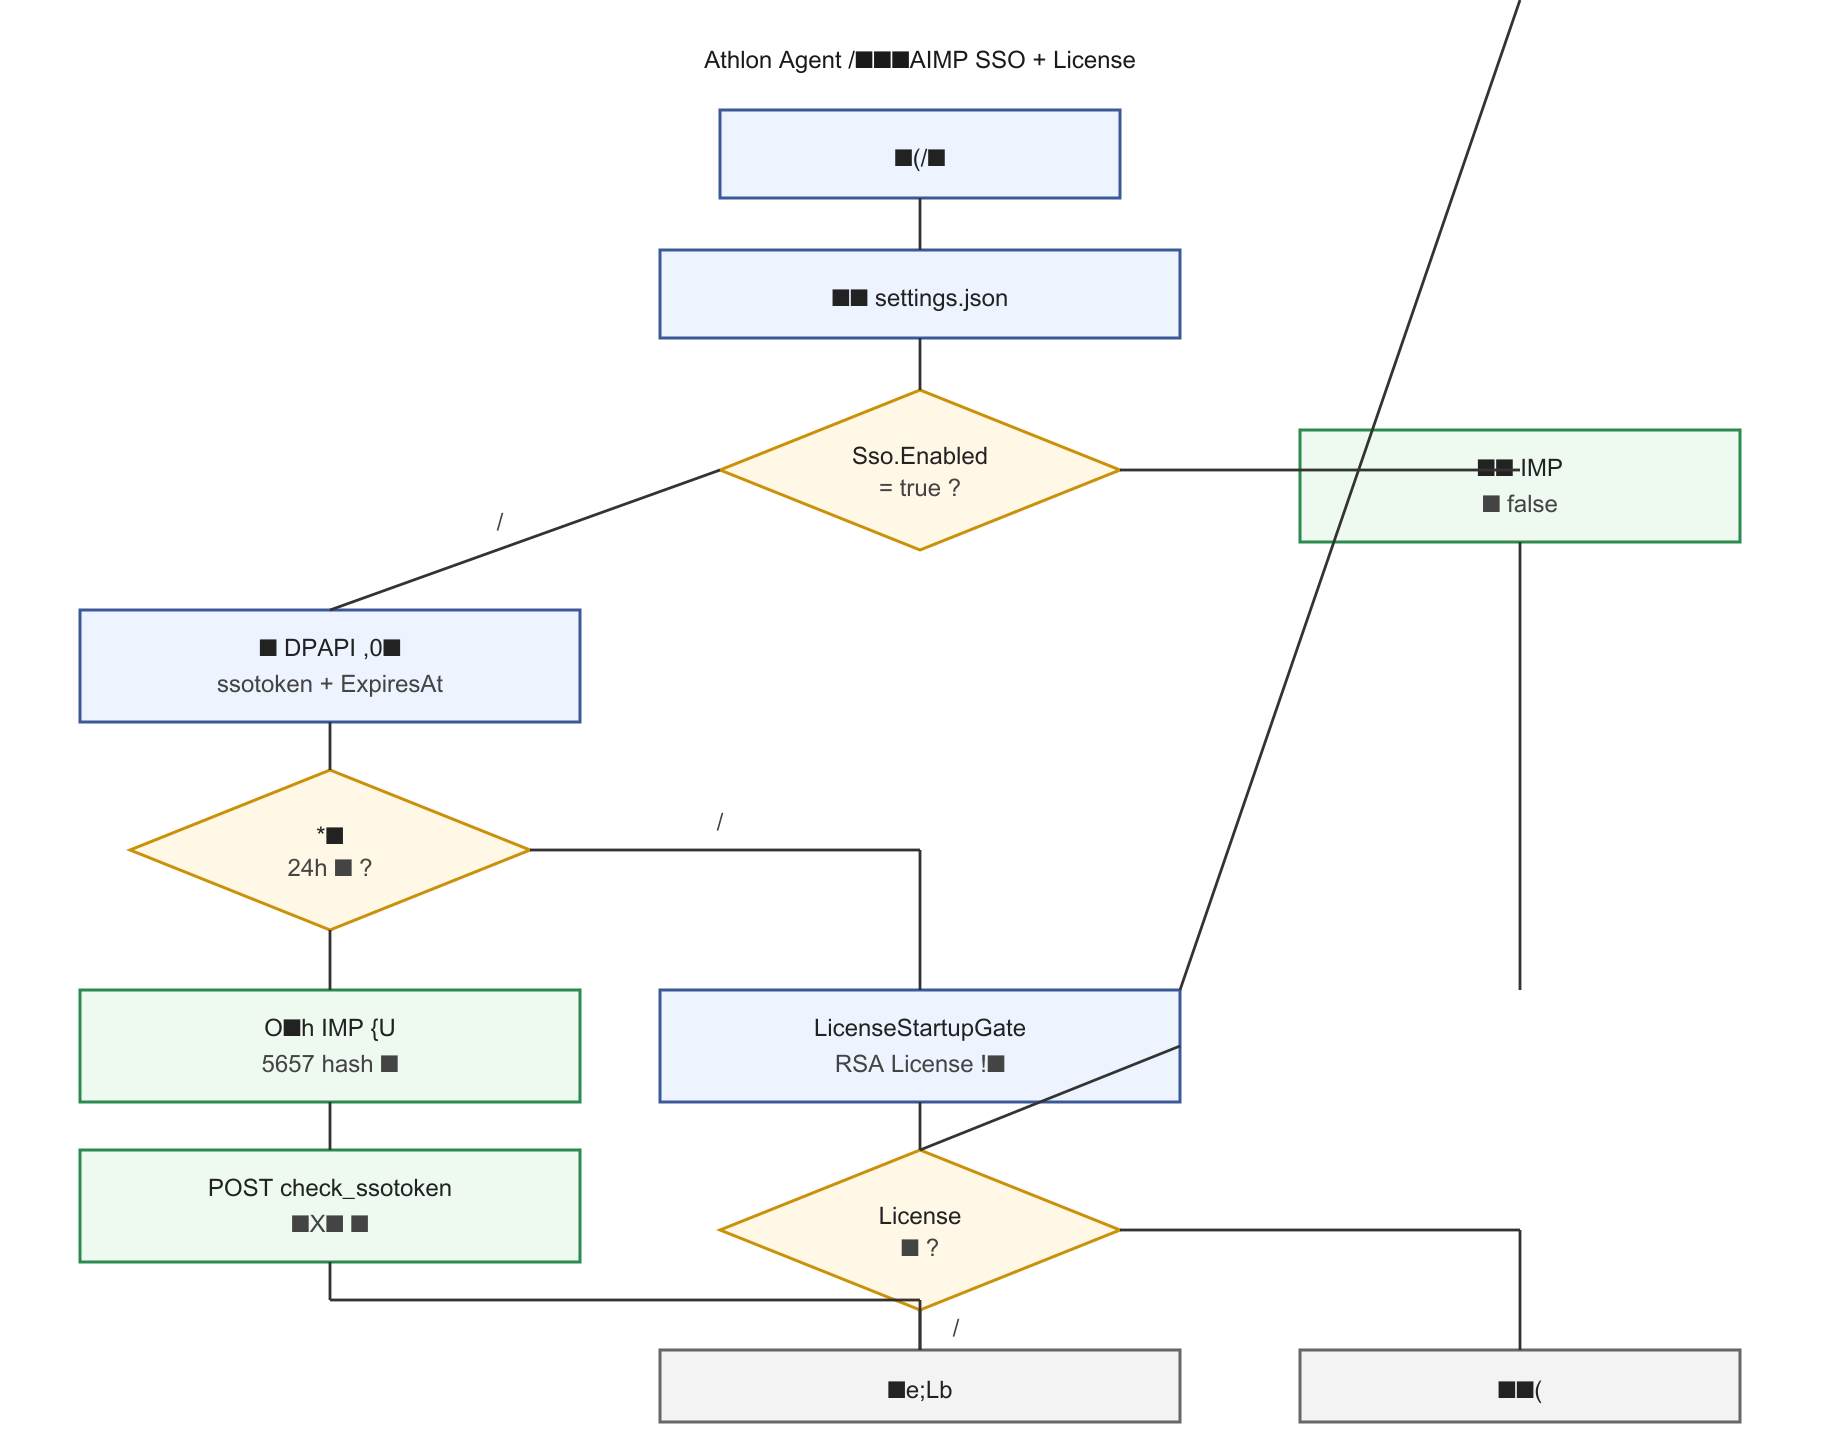
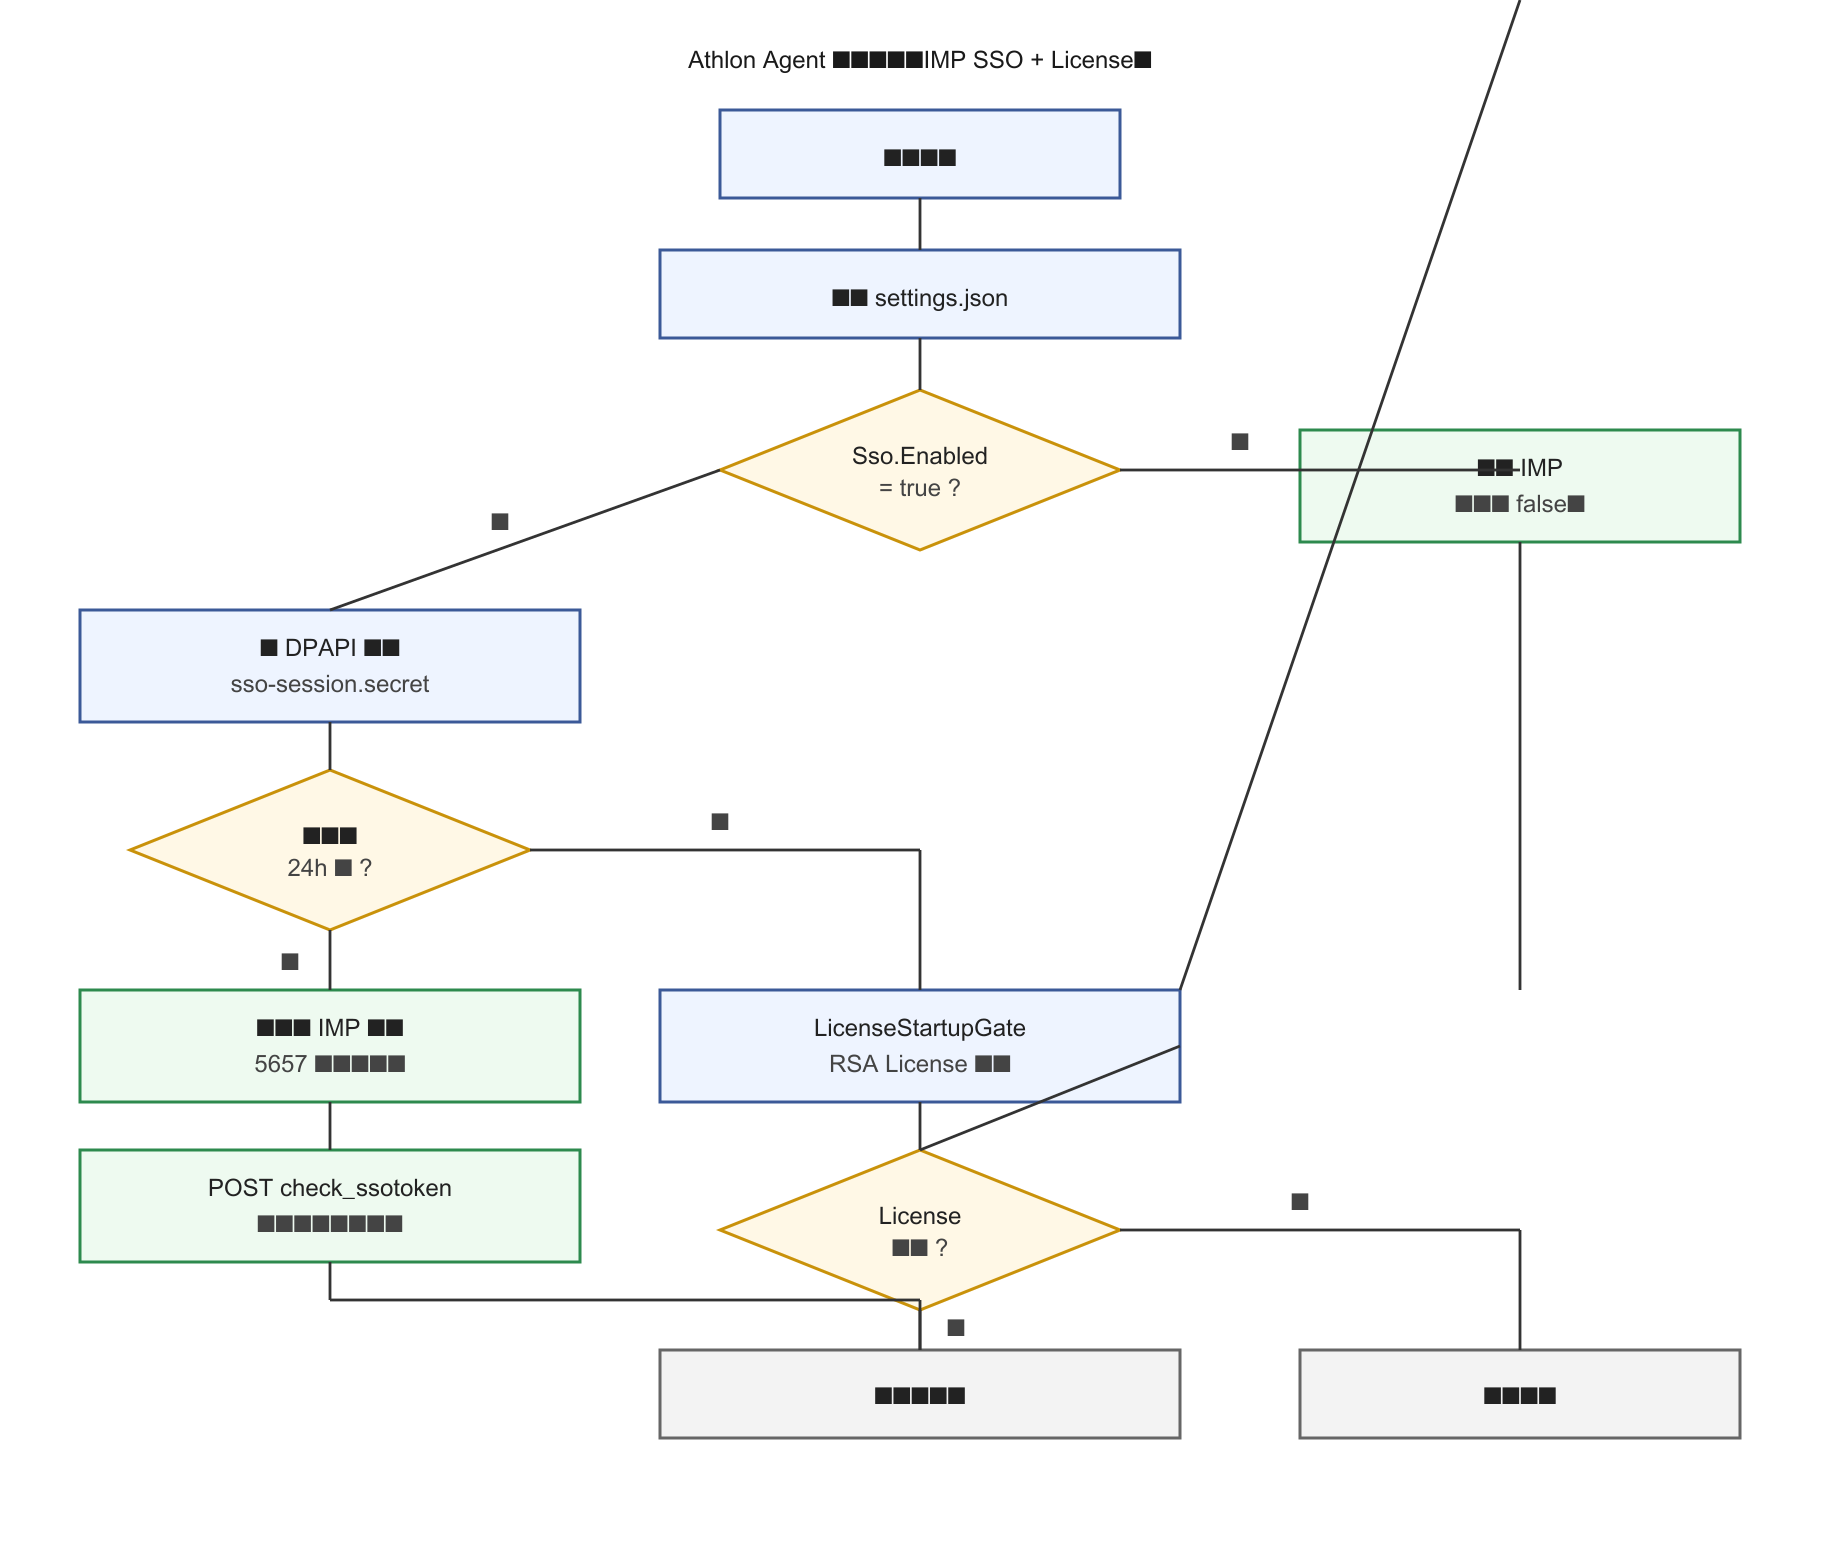
feat: auto-close SSO page with countdown and refresh IMP SSO docs to V2.0
Align implementation docs with dual-endpoint callback flow and add a 3-second closing countdown on the branded SSO success page.

diff --git a/tools/imp-sso-doc/generate_imp_sso_doc.py b/tools/imp-sso-doc/generate_imp_sso_doc.py
@@ -90,8 +90,8 @@ def build_document() -> Document:
     add_title(document, "Athlon Agent IMP SSO 实现方案")
     meta = document.add_paragraph()
     meta.alignment = WD_ALIGN_PARAGRAPH.CENTER
-    meta.add_run(f"文档版本：V1.0    创建日期：{date.today().isoformat()}\n").bold = True
-    meta.add_run("适用范围：Athlon Agent v2.0.5（feature/imp-sso）")
+    meta.add_run(f"文档版本：V2.0    创建日期：{date.today().isoformat()}\n").bold = True
+    meta.add_run("适用范围：Athlon Agent（feature/imp-sso）")
 
     add_heading(document, "1. 概述")
     add_paragraph(
@@ -104,8 +104,9 @@ def build_document() -> Document:
         [
             "默认 Sso.Enabled = false，前期不影响现有 License 流程",
             "启用后：SSO 与 License 双重门控均须通过",
-            "本地会话固定 24 小时有效，不做续期",
+            "本地会话固定 24 小时有效（SessionValidityHours），不做续期",
             "标题栏显示 IMP 返回的 ename，支持登出",
+            "浏览器回调采用双端点设计：GET /sso/auth 返回认证页，POST /sso/complete 回传 token",
         ],
     )
 
@@ -116,8 +117,9 @@ def build_document() -> Document:
         [
             ["OAuth access/refresh token", "单一 ssotoken（回调 hash 参数 token）"],
             ["POST /refresh_token", "无 refresh；登录时 POST check_ssotoken 一次"],
-            ["IMP timeoutRemaining 驱动过期", "本地 LoggedInAt + 24h"],
+            ["IMP timeoutRemaining 驱动本地过期", "本地 LoggedInAt + SessionValidityHours"],
             ["SsoFilter 5 分钟轮询续期", "不实现续期"],
+            ["服务端直接读取 hash", "浏览器 JS 解析 hash 后 POST JSON 到 /sso/complete"],
         ],
     )
 
@@ -127,8 +129,9 @@ def build_document() -> Document:
         '{\n'
         '  "Sso": {\n'
         '    "Enabled": false,\n'
-        '    "ImpDomain": "www.icbcasia.com",\n'
+        '    "ImpDomain": "imp.icbcasiauat.com",\n'
         '    "AppId": "252",\n'
+        '    "Msg": "123456789",\n'
         '    "Version": "20251127",\n'
         '    "SessionValidityHours": 24,\n'
         '    "CallbackPort": 5657,\n'
@@ -137,6 +140,21 @@ def build_document() -> Document:
         '  }\n'
         '}',
         style="Intense Quote",
+    )
+    add_table(
+        document,
+        ["配置项", "说明"],
+        [
+            ["Enabled", "是否启用 IMP SSO，默认 false"],
+            ["ImpDomain", "IMP 域名，UAT 默认 imp.icbcasiauat.com，生产切换为正式域名"],
+            ["AppId", "IMP 子应用 ID（impappid）"],
+            ["Msg", "IMP 子应用标识，用于 index.html 的 msg 参数"],
+            ["Version", "check_ssotoken 接口版本号"],
+            ["SessionValidityHours", "本地会话有效期（小时），默认 24"],
+            ["CallbackPort", "本地回调监听端口，默认 5657"],
+            ["CallbackPath", "认证页路径，默认 /sso/auth"],
+            ["CompletePath", "token 回传路径，默认 /sso/complete"],
+        ],
     )
     add_table(
         document,
@@ -151,9 +169,10 @@ def build_document() -> Document:
     add_bullets(
         document,
         [
-            "IMP 登录成功 → POST check_ssotoken（仅此一次）→ 存 ssotoken + ename",
+            "IMP 登录成功 → 浏览器 POST /sso/complete → Agent POST check_ssotoken（仅此一次）→ 存 ssotoken + ename",
             "ExpiresAt = LoggedInAt + SessionValidityHours（默认 24h）",
-            "24h 内再次启动：读 DPAPI 缓存，不调 IMP",
+            "会话持久化至 ~/.athlon-agent/credentials/sso-session.secret（DPAPI 加密）",
+            "24h 内再次启动：读 DPAPI 缓存，不调 IMP、不打开浏览器",
             "超过 24h：清缓存 → 重新浏览器 IMP 登录",
             "运行期间不续期、不轮询 check_ssotoken",
         ],
@@ -170,7 +189,7 @@ def build_document() -> Document:
         document,
         "4.2 IMP 登录时序图",
         "login_sequence.svg",
-        "图 2  IMP 浏览器登录与 hash 回调时序",
+        "图 2  IMP 浏览器登录与双端点回调时序",
     )
 
     add_heading(document, "5. IMP 协议要点")
@@ -179,48 +198,95 @@ def build_document() -> Document:
         document,
         ["端点", "何时调用"],
         [
-            ["/icbcasia/imp/index.html", "无有效缓存或已过期时打开浏览器"],
-            ["/icbcasia/imp/check_ssotoken", "hash 回调拿到 ssotoken 后调用一次"],
-            ["/icbcasia/imp/getsaubapp", "可选；回调 URL 已固定时可跳过"],
+            ["/icbcasia/imp/index.html?toLogin=true&appId={AppId}&msg={Msg}#/login", "无有效缓存或已过期时打开浏览器"],
+            ["/icbcasia/imp/check_ssotoken", "收到 /sso/complete 回调后调用一次"],
+            ["GET localhost:{CallbackPort}/sso/auth", "IMP 重定向后浏览器请求认证页"],
+            ["POST localhost:{CallbackPort}/sso/complete", "认证页 JS 解析 hash 后回传 JSON"],
         ],
     )
 
     add_heading(document, "5.2 check_ssotoken 请求", level=2)
     document.add_paragraph(
-        "POST https://{ImpDomain}/icbcasia/imp/check_ssotoken?version=20251127\n"
+        "POST https://{ImpDomain}/icbcasia/imp/check_ssotoken?version={Version}\n"
         "Content-Type: application/x-www-form-urlencoded\n\n"
-        "ssotoken={token}&impappid=252&dse_sessionId={token}&requestip={localIp}",
+        "ssotoken={token}&impappid={AppId}&dse_sessionId={token}&requestip={localIp}",
         style="Intense Quote",
     )
 
-    add_heading(document, "5.3 回调 URL 格式", level=2)
+    add_heading(document, "5.3 check_ssotoken 响应解析", level=2)
+    add_table(
+        document,
+        ["条件", "状态", "处理"],
+        [
+            ["retcode = 1", "ReLoginRequired", "提示重新登录"],
+            ["roleUserRelNum <= 0", "NoRole", "提示无角色，打开 noRoleForSubApp 页面"],
+            ["返回 HTML 登录页", "LoginRequired", "需要 IMP 登录"],
+            ["userid + timeoutRemaining > 0", "Valid", "提取 ename 作为 DisplayName，创建会话"],
+            ["HTTP 非 200 或解析失败", "Invalid", "显示错误信息，退出应用"],
+        ],
+    )
+
+    add_heading(document, "5.4 回调 URL 与双端点流程", level=2)
+    add_paragraph(document, "IMP 登录成功后重定向至：")
     document.add_paragraph(
         "http://localhost:5657/sso/auth#/?appId=252&userId=000974115&locale=zh_HK"
         "&token={ssotoken}&role=User&depname=FTD",
         style="Intense Quote",
     )
-    add_paragraph(document, "注意：token 在 URL hash 中，HttpListener 无法直接读取，需 /sso/auth 返回 JS 解析页。")
+    add_bullets(
+        document,
+        [
+            "token 在 URL hash 中，HttpListener 无法直接读取",
+            "GET /sso/auth → 返回 ImpSsoAuthPageHtml 认证页（含加载/成功/失败状态）",
+            "浏览器 JS 解析 hash → POST /sso/complete（JSON body）",
+            "服务端校验 token 非空后返回 {ok: true}，同时唤醒 Agent 等待线程",
+            "Agent 收到 payload 后校验 appId，再调用 check_ssotoken 二次校验",
+        ],
+    )
+
+    add_heading(document, "5.5 /sso/complete 请求体", level=2)
+    document.add_paragraph(
+        '{\n'
+        '  "appId": "252",\n'
+        '  "userId": "000974115",\n'
+        '  "locale": "zh_HK",\n'
+        '  "token": "{ssotoken}",\n'
+        '  "role": "User",\n'
+        '  "depname": "FTD",\n'
+        '  "channel_type": null,\n'
+        '  "msg": null\n'
+        '}',
+        style="Intense Quote",
+    )
 
     add_heading(document, "6. 核心组件")
     add_table(
         document,
         ["组件", "路径", "职责"],
         [
-            ["SsoSettings", "Athlon.Agent.Core/Sso/", "配置项，Enabled 默认 false"],
-            ["ImpSsoSession", "Athlon.Agent.Core/Sso/", "SsoToken、DisplayName、ExpiresAt"],
-            ["ImpSsoSessionStore", "Infrastructure/Sso/", "DPAPI 加密持久化"],
-            ["ImpSsoAuthService", "Infrastructure/Sso/", "POST check_ssotoken"],
-            ["ImpSsoCallbackServer", "Infrastructure/Sso/", "5657 端口 hash 回调"],
-            ["ImpSsoStartupGate", "App/Licensing/", "启动门控编排"],
-            ["MainWindowViewModel", "App/ViewModels/", "标题栏 ename + 登出"],
+            ["SsoSettings", "Athlon.Agent.Core/Sso/", "配置项，含 Msg、Enabled 默认 false"],
+            ["ImpSsoSession", "Athlon.Agent.Core/Sso/", "SsoToken、UserId、DisplayName、LoggedInAt、ExpiresAt"],
+            ["ImpSsoCallbackPayload", "Athlon.Agent.Core/Sso/", "浏览器回传的 hash 参数字段"],
+            ["ImpSsoSessionStore", "Infrastructure/Sso/", "DPAPI 加密持久化至 credentials/sso-session.secret"],
+            ["ImpSsoAuthService", "Infrastructure/Sso/", "构建登录 URL、POST check_ssotoken、CompleteLoginAsync"],
+            ["ImpSsoResponseParser", "Infrastructure/Sso/", "解析 check_ssotoken JSON 响应"],
+            ["ImpSsoCallbackServer", "Infrastructure/Sso/", "5657 端口双端点回调服务"],
+            ["ImpSsoAuthPageHtml", "Infrastructure/Sso/", "认证页 HTML（hash 解析 + fetch POST）"],
+            ["ImpSsoStartupGate", "App/Licensing/", "启动门控编排、等待窗口、浏览器登录"],
+            ["ImpSsoLoginWaitingWindow", "App/Licensing/", "登录等待提示窗口"],
+            ["MainWindowViewModel", "App/ViewModels/", "标题栏 ename 显示 + 登出"],
         ],
     )
 
     add_heading(document, "7. 启动顺序")
     document.add_paragraph(
-        "1. 若 Sso.Enabled → ImpSsoStartupGate.EnsureAuthenticated\n"
-        "2. LicenseStartupGate.EnsureLicensed\n"
-        "3. DI 注册 + MainWindow",
+        "1. StartupUpdateGate.CheckBeforeStartupGates\n"
+        "2. 若 Sso.Enabled → ImpSsoStartupGate.EnsureAuthenticated\n"
+        "   a. 读 DPAPI 缓存，未过期则直接通过\n"
+        "   b. 过期则显示 ImpSsoLoginWaitingWindow，后台线程执行浏览器登录\n"
+        "   c. 登录超时 5 分钟\n"
+        "3. LicenseStartupGate.EnsureLicensed\n"
+        "4. DI 注册 + MainWindow",
         style="List Number",
     )
 
@@ -228,9 +294,11 @@ def build_document() -> Document:
     add_bullets(
         document,
         [
-            "Sso.Enabled=true：标题栏右侧显示 ename（IMP 返回）",
+            "Sso.Enabled=true：标题栏右侧显示 ename（IMP 返回，无 ename 时回退 userid）",
             "点击姓名 → 确认「确定要退出登录吗？」→ 清 ssotoken → 退出应用",
             "Sso.Enabled=false：不显示 SSO 相关 UI",
+            "浏览器认证页：加载中 → 成功（可关闭）/ 失败（显示 IMP msg 或通用错误）",
+            "登录等待窗口：提示用户已在浏览器中打开登录页，登录成功后自动关闭",
         ],
     )
 
@@ -238,15 +306,30 @@ def build_document() -> Document:
     add_bullets(
         document,
         [
-            "ssotoken 使用 Windows DPAPI 加密存储（CurrentUser）",
+            "ssotoken 使用 Windows DPAPI 加密存储（CurrentUser），文件路径 credentials/sso-session.secret",
             "回调 token 不可信，必须 check_ssotoken 二次校验",
+            "回调 appId 与配置 AppId 不一致时拒绝登录",
             "日志中应对 ssotoken 脱敏",
             "全部 IMP 通信使用 HTTPS",
+            "CallbackServer 在收到回调后优雅关闭，等待进行中的请求排空（最多 5 秒）",
         ],
     )
 
-    add_heading(document, "10. 验收标准")
-    add_heading(document, "10.1 Sso.Enabled=false（默认）", level=2)
+    add_heading(document, "10. 错误处理")
+    add_table(
+        document,
+        ["场景", "用户提示", "应用行为"],
+        [
+            ["登录超时（5 分钟）", "IMP 登录超时，请重试", "退出应用"],
+            ["NoRole（无可用角色）", "当前登录用户无可用角色", "打开 noRoleForSubApp 页面，退出应用"],
+            ["ReLoginRequired", "IMP 返回的 retmsg", "退出应用"],
+            ["hash 无 token", "浏览器页显示 IMP msg 或通用错误", "等待超时后退出"],
+            ["check_ssotoken 失败", "IMP SSO 登录失败", "退出应用"],
+        ],
+    )
+
+    add_heading(document, "11. 验收标准")
+    add_heading(document, "11.1 Sso.Enabled=false（默认）", level=2)
     add_bullets(
         document,
         [
@@ -255,20 +338,25 @@ def build_document() -> Document:
             "标题栏无 SSO 姓名/登出入口",
         ],
     )
-    add_heading(document, "10.2 Sso.Enabled=true", level=2)
+    add_heading(document, "11.2 Sso.Enabled=true", level=2)
     add_bullets(
         document,
         [
-            "首次 IMP 登录 → check_ssotoken 一次 → 进入主界面",
+            "首次 IMP 登录 → GET /sso/auth → POST /sso/complete → check_ssotoken 一次 → 进入主界面",
+            "浏览器认证页显示登录成功状态",
             "24h 内再次启动免浏览器、免 IMP",
             "超过 24h 重新 IMP 登录",
             "SSO + License 双门控",
             "点击姓名可登出",
+            "无角色用户引导至 noRoleForSubApp 页面",
         ],
     )
 
-    add_heading(document, "11. 附录：Debug 开关")
-    add_paragraph(document, "DEBUG 构建可设置环境变量 ATHLON_SKIP_SSO=1 跳过 SSO 门控（与 ATHLON_SKIP_LICENSE 对称）。")
+    add_heading(document, "12. 附录：Debug 开关")
+    add_paragraph(
+        document,
+        "DEBUG 构建可设置环境变量 ATHLON_SKIP_SSO=1 跳过 SSO 门控（与 ATHLON_SKIP_LICENSE 对称）。",
+    )
 
     return document
 

diff --git a/src/Athlon.Agent.Infrastructure/Sso/ImpSsoAuthPageHtml.cs b/src/Athlon.Agent.Infrastructure/Sso/ImpSsoAuthPageHtml.cs
@@ -202,7 +202,7 @@ internal static class ImpSsoAuthPageHtml
                 </svg>
               </div>
               <div class="state-title">登录成功</div>
-              <div class="state-desc">身份验证已完成，请关闭此页面返回应用。</div>
+              <div class="state-desc">身份验证已完成，页面将在 <span id="success-countdown">3</span> 秒后自动关闭。</div>
             </div>
 
             <div id="state-error" class="state-panel" hidden>
@@ -224,6 +224,7 @@ internal static class ImpSsoAuthPageHtml
             var success = document.getElementById('state-success');
             var error = document.getElementById('state-error');
             var errorMessage = document.getElementById('error-message');
+            var successCountdown = document.getElementById('success-countdown');
 
             function showState(state, message) {
               loading.hidden = state !== 'loading';
@@ -232,6 +233,24 @@ internal static class ImpSsoAuthPageHtml
               if (message && errorMessage) {
                 errorMessage.textContent = message;
               }
+            }
+
+            function startAutoCloseCountdown(seconds) {
+              var remaining = seconds;
+              if (successCountdown) {
+                successCountdown.textContent = String(remaining);
+              }
+              var timer = setInterval(function () {
+                remaining -= 1;
+                if (remaining > 0) {
+                  if (successCountdown) {
+                    successCountdown.textContent = String(remaining);
+                  }
+                  return;
+                }
+                clearInterval(timer);
+                window.close();
+              }, 1000);
             }
 
             var hash = window.location.hash || '';
@@ -271,6 +290,7 @@ internal static class ImpSsoAuthPageHtml
             .then(function (data) {
               if (data && data.ok === false) throw new Error('验证未通过');
               showState('success');
+              startAutoCloseCountdown(3);
             })
             .catch(function () {
               showState('error', '无法完成身份验证，请关闭此页面并在应用中重试。');